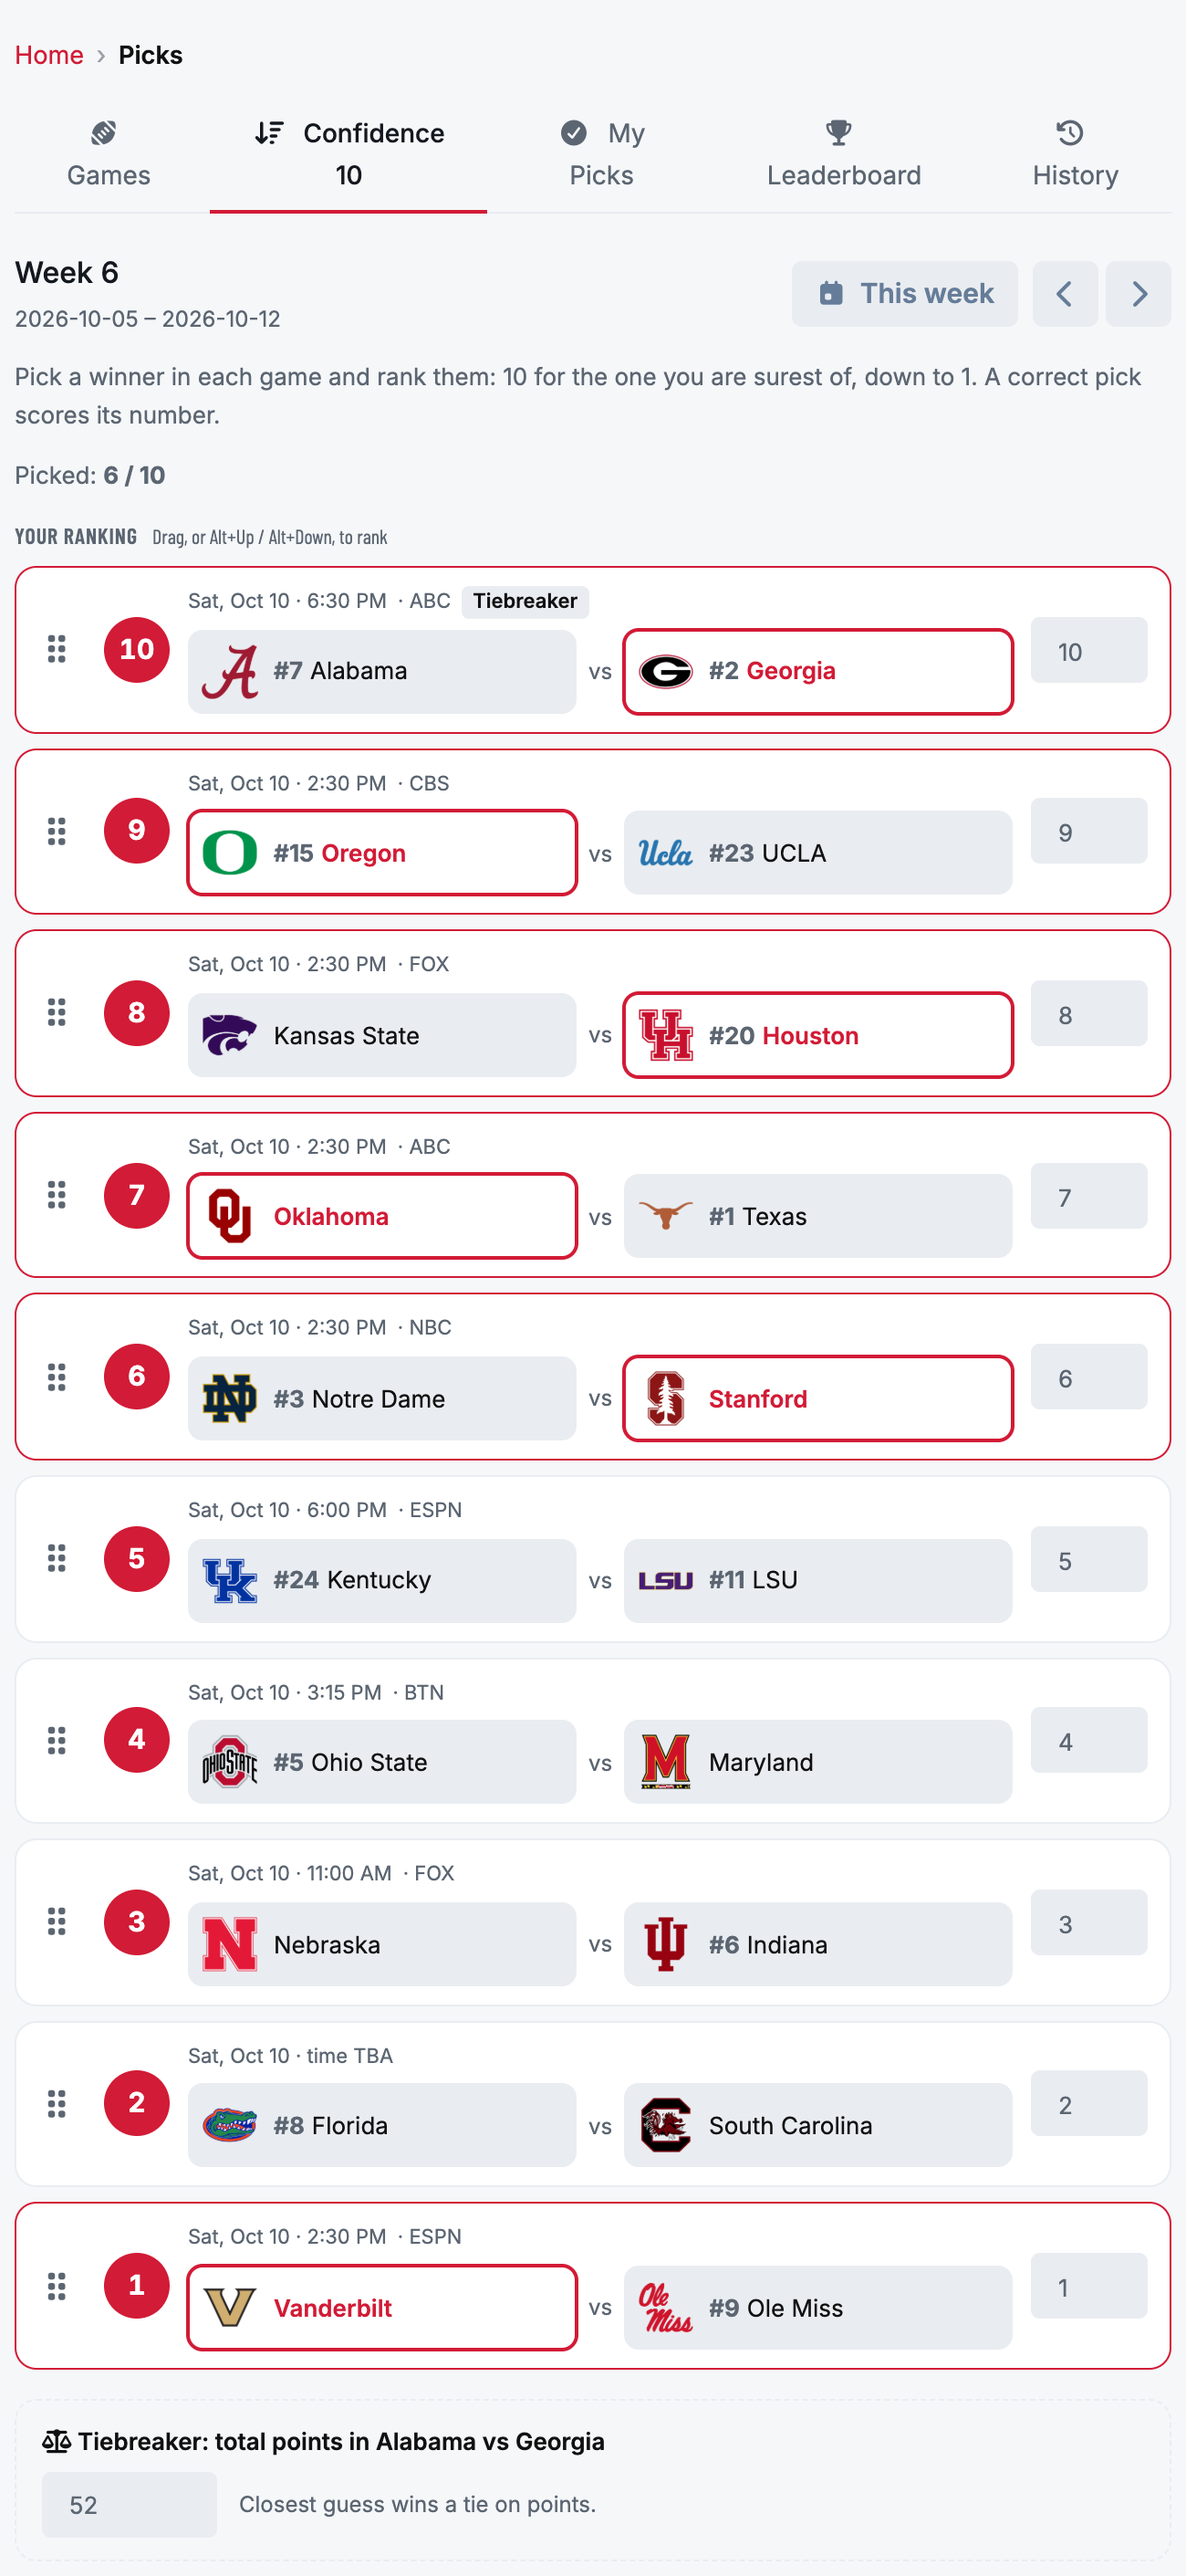
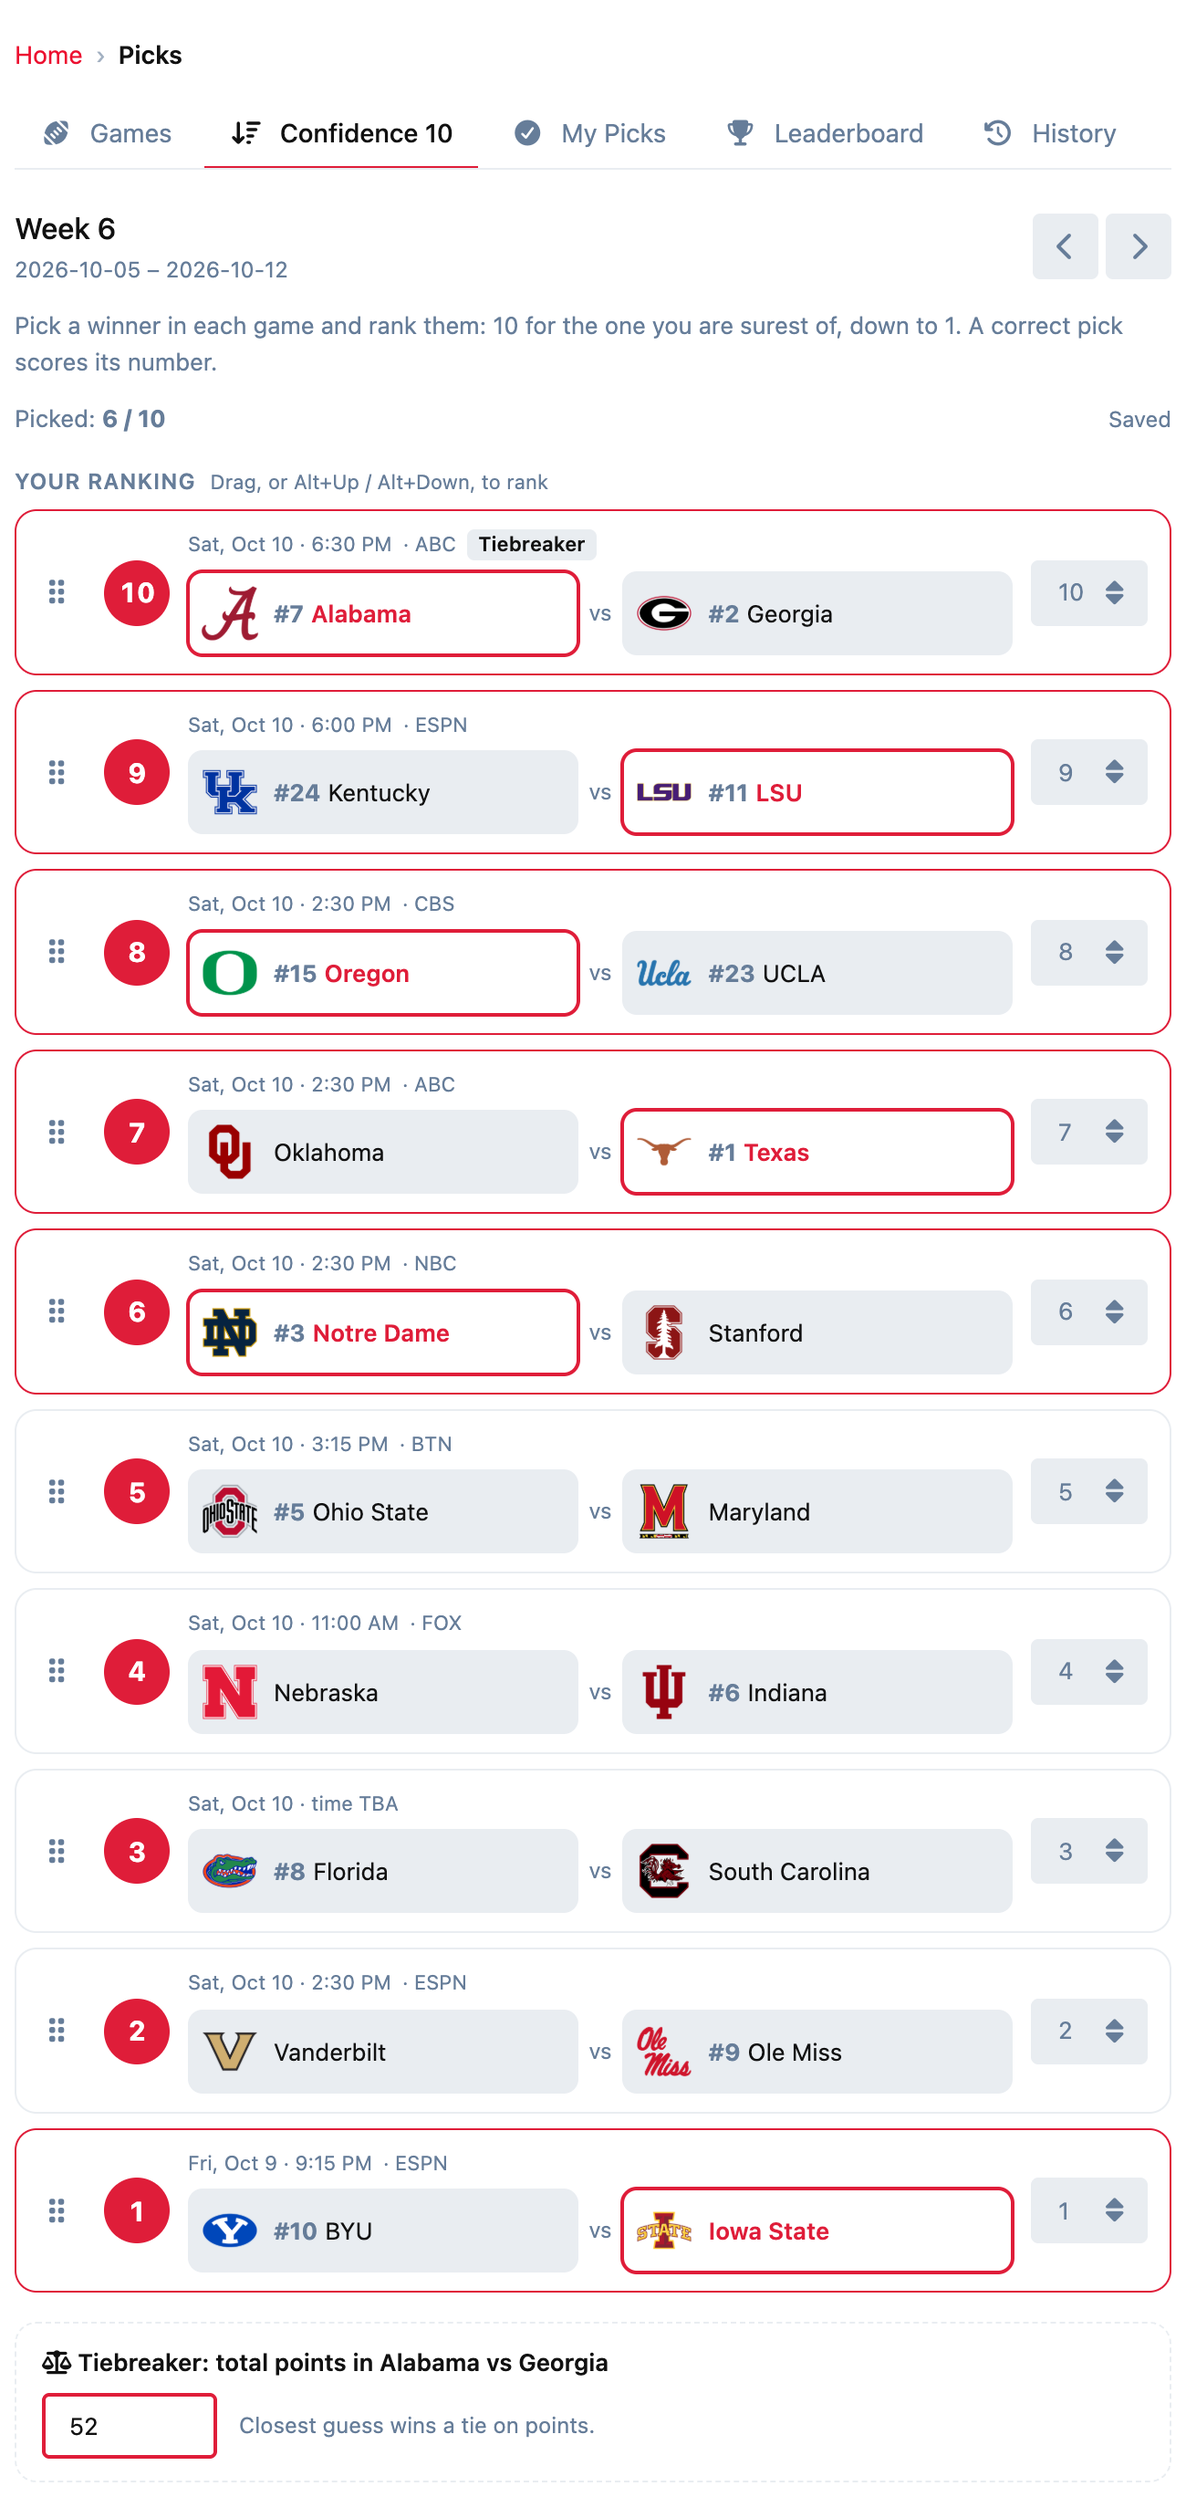
docs: Confidence screenshots retaken, all time and the profile section added
The board shots now show the number menu with its caret and the tabs on one
line. Taken on the demo with test accounts only.

diff --git a/README.md b/README.md
@@ -135,7 +135,16 @@ scores never change.
 ![Confidence 10 week standings, with the tiebreaker column](screenshots/confidence-leaderboard.png)
 
 The **Leaderboard** and **History** tabs get a *Full board / Confidence 10*
-switch, with week and season standings for the contest.
+switch, with week, season and all-time standings for the contest. All time is
+the sum of each member's seasons, as on the full board.
+
+![Confidence 10 all-time standings](screenshots/confidence-alltime.png)
+
+A member's **Picks History** tab on their profile gets a Confidence 10 section
+under the full board's: the same stat cards for all time, then each season they
+played with its weeks, including the tiebreaker distance and the rank each week.
+
+![The Confidence 10 section of a member's Picks History](screenshots/confidence-profile.png)
 
 <p>
   <img src="screenshots/confidence-results.png" alt="A finished Confidence week: each pick marked correct or incorrect with its points" width="380">
